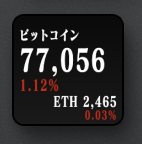
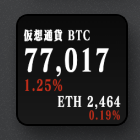
Watch 1 or 2 coins from BTC, ETH, BNB, XRP, SOL, and TRX.
Keep the compact second-coin row, title the first as 仮想通貨, and refresh the README demo.

diff --git a/plugin/actions/btcticker.js b/plugin/actions/btcticker.js
@@ -1,5 +1,48 @@
+const COINS = [
+    { key: 'showBTC', symbol: 'BTC', id: 1 },
+    { key: 'showETH', symbol: 'ETH', id: 1027 },
+    { key: 'showBNB', symbol: 'BNB', id: 1839 },
+    { key: 'showXRP', symbol: 'XRP', id: 52 },
+    { key: 'showSOL', symbol: 'SOL', id: 5426 },
+    { key: 'showTRX', symbol: 'TRX', id: 1958 }
+]
+
+function asBool(value) {
+    return value === true || value === 'on' || value === 'true'
+}
+
 function formatChangePercent(change) {
     return `${Math.abs(Number(change) || 0).toFixed(2)}%`
+}
+
+function formatPrice(value) {
+    const amount = Number(value) || 0
+    const abs = Math.abs(amount)
+    if (abs >= 100) return Math.round(amount).toLocaleString('en-US')
+    if (abs >= 1) return amount.toLocaleString('en-US', { minimumFractionDigits: 2, maximumFractionDigits: 2 })
+    return amount.toLocaleString('en-US', { minimumFractionDigits: 4, maximumFractionDigits: 4 })
+}
+
+function cryptoTitle(symbol) {
+    return `仮想通貨 ${symbol}`
+}
+
+function changeColor(change) {
+    return change > 0 ? '#3f9c24' : '#c62e1a'
+}
+
+function enabledCoins(settings) {
+    return COINS.filter((coin) => asBool(settings[coin.key]))
+}
+
+function displayLimit(settings) {
+    const count = Number(settings.showCount)
+    if (count === 1 || count === 2) return count
+    return Math.min(2, Math.max(1, enabledCoins(settings).length))
+}
+
+function coinsToShow(settings) {
+    return enabledCoins(settings).slice(0, displayLimit(settings))
 }
 
 class BTCTicker {
@@ -10,8 +53,13 @@ class BTCTicker {
         this.HORIZONTAL_COMPRESS = 0.7
 
         this.settings = {
+            showCount: 1,
             showBTC: true,
             showETH: false,
+            showBNB: false,
+            showXRP: false,
+            showSOL: false,
+            showTRX: false,
             refreshDuration: 60
         }
         this.allowSend = true
@@ -43,40 +91,25 @@ class BTCTicker {
 
             this.createIcon("Loading...", null) //loading
 
-            const { showBTC, showETH } = this.settings
-            console.log('===fetchData settings:', { showBTC, showETH })
+            const selected = coinsToShow(this.settings)
+            console.log('===fetchData settings:', this.settings, selected.map((coin) => coin.symbol))
+
+            if (selected.length === 0) {
+                this.createIcon("No crypto selected", null)
+                return
+            }
 
             try {
+                const cryptoData = await Promise.all(selected.map(async (coin) => {
+                    const result = await Utils.fetchData(`https://api.coinmarketcap.com/data-api/v3/cryptocurrency/detail/lite?id=${coin.id}`)
+                    return {
+                        symbol: coin.symbol,
+                        price: result.data.statistics.price,
+                        change: result.data.statistics.priceChangePercentage24h
+                    }
+                }))
 
-                const cryptoData = []
-
-                if (showBTC) {
-                    const btcResult = await Utils.fetchData("https://api.coinmarketcap.com/data-api/v3/cryptocurrency/detail/lite?id=1")
-                    const btcPrice = btcResult.data.statistics.price
-                    const btcChange = btcResult.data.statistics.priceChangePercentage24h
-                    cryptoData.push({
-                        symbol: 'BTC',
-                        price: btcPrice,
-                        change: btcChange
-                    })
-                }
-
-                if (showETH) {
-                    const ethResult = await Utils.fetchData("https://api.coinmarketcap.com/data-api/v3/cryptocurrency/detail/lite?id=1027")
-                    const ethPrice = ethResult.data.statistics.price
-                    const ethChange = ethResult.data.statistics.priceChangePercentage24h
-                    cryptoData.push({
-                        symbol: 'ETH',
-                        price: ethPrice,
-                        change: ethChange
-                    })
-                }
-
-                if (cryptoData.length > 0) {
-                    this.createIcon(null, { cryptoData })
-                } else {
-                    this.createIcon("No crypto selected", null)
-                }
+                this.createIcon(null, { cryptoData })
 
             } catch (e) {
                 console.log('===fetch data error', e)
@@ -136,57 +169,57 @@ class BTCTicker {
         ctx.textBaseline = 'middle'
         ctx.textAlign = 'left'
         const leftPadding = 10
+        const fontStack = '"FOT-Matisse Pro", "MatissePro-EB", sans-serif'
         if (data && data.cryptoData && data.cryptoData.length > 0) {
             const cryptoData = data.cryptoData
             if (cryptoData.length === 1) {
                 const crypto = cryptoData[0]
-                const formattedPrice = `${parseInt(crypto.price).toLocaleString()}`
+                const formattedPrice = formatPrice(crypto.price)
                 const formattedChange = formatChangePercent(crypto.change)
                 ctx.fillStyle = "#ffffff"
                 ctx.shadowColor = "#ffffff"
                 ctx.shadowBlur = 0
-                ctx.font = `28px "FOT-Matisse Pro", "MatissePro-EB", sans-serif`
-                this.drawTextWithSpacing(ctx, crypto.symbol, leftPadding, centerY - 50, 2, 'left')
+                ctx.font = `24px ${fontStack}`
+                this.drawTextWithSpacing(ctx, cryptoTitle(crypto.symbol), leftPadding, centerY - 50, 2, 'left')
                 const fontSize = formattedPrice.length > 8 ? 48 : formattedPrice.length > 6 ? 52 : 56
-                ctx.font = `${fontSize}px "FOT-Matisse Pro", "MatissePro-EB", sans-serif`
+                ctx.font = `${fontSize}px ${fontStack}`
                 this.drawTextWithSpacing(ctx, formattedPrice, leftPadding, centerY - 5, 3, 'left')
                 ctx.shadowBlur = 0
-                ctx.fillStyle = crypto.change > 0 ? "#3f9c24" : "#c62e1a"
-                ctx.shadowColor = crypto.change > 0 ? "#3f9c24" : "#c62e1a"
-                ctx.font = `28px "FOT-Matisse Pro", "MatissePro-EB", sans-serif`
+                ctx.fillStyle = changeColor(crypto.change)
+                ctx.shadowColor = changeColor(crypto.change)
+                ctx.font = `28px ${fontStack}`
                 this.drawTextWithSpacing(ctx, formattedChange, leftPadding, centerY + 40, 2, 'left')
-            } else if (cryptoData.length === 2) {
-                const btc = cryptoData.find(c => c.symbol === 'BTC')
-                const eth = cryptoData.find(c => c.symbol === 'ETH')
+            } else {
+                const primary = cryptoData[0]
+                const secondary = cryptoData[1]
                 const rightPadding = canvas.width - 10
-                if (btc) {
-                    const formattedPrice = `${parseInt(btc.price).toLocaleString()}`
-                    const formattedChange = formatChangePercent(btc.change)
+                if (primary) {
+                    const formattedPrice = formatPrice(primary.price)
+                    const formattedChange = formatChangePercent(primary.change)
                     ctx.fillStyle = "#ffffff"
                     ctx.shadowColor = "#ffffff"
                     ctx.shadowBlur = 0
-                    ctx.font = `24px "FOT-Matisse Pro", "MatissePro-EB", sans-serif`
-                    this.drawTextWithSpacing(ctx, 'ビットコイン', leftPadding, 35, 2, 'left')
+                    ctx.font = `24px ${fontStack}`
+                    this.drawTextWithSpacing(ctx, cryptoTitle(primary.symbol), leftPadding, 35, 2, 'left')
                     const fontSize = formattedPrice.length > 8 ? 48 : formattedPrice.length > 6 ? 52 : 56
-                    ctx.font = `${fontSize}px "FOT-Matisse Pro", "MatissePro-EB", sans-serif`
+                    ctx.font = `${fontSize}px ${fontStack}`
                     this.drawTextWithSpacing(ctx, formattedPrice, leftPadding, 80, 3, 'left')
-                    ctx.fillStyle = btc.change > 0 ? "#3f9c24" : "#c62e1a"
-                    ctx.shadowColor = btc.change > 0 ? "#3f9c24" : "#c62e1a"
-                    ctx.font = `28px "FOT-Matisse Pro", "MatissePro-EB", sans-serif`
+                    ctx.fillStyle = changeColor(primary.change)
+                    ctx.shadowColor = changeColor(primary.change)
+                    ctx.font = `28px ${fontStack}`
                     this.drawTextWithSpacing(ctx, formattedChange, leftPadding, 125, 2, 'left')
                 }
-                if (eth) {
-                    const formattedPrice = `${parseInt(eth.price).toLocaleString()}`
-                    const formattedChange = formatChangePercent(eth.change)
+                if (secondary) {
+                    const formattedPrice = formatPrice(secondary.price)
+                    const formattedChange = formatChangePercent(secondary.change)
                     ctx.fillStyle = "#ffffff"
                     ctx.shadowColor = "#ffffff"
                     ctx.shadowBlur = 0
-                    ctx.font = `26px "FOT-Matisse Pro", "MatissePro-EB", sans-serif`
-                    const ethLabel = `${eth.symbol} ${formattedPrice}`
-                    this.drawTextWithSpacing(ctx, ethLabel, rightPadding, 155, 2, 'right')
-                    ctx.fillStyle = eth.change > 0 ? "#3f9c24" : "#c62e1a"
-                    ctx.shadowColor = eth.change > 0 ? "#3f9c24" : "#c62e1a"
-                    ctx.font = `22px "FOT-Matisse Pro", "MatissePro-EB", sans-serif`
+                    ctx.font = `26px ${fontStack}`
+                    this.drawTextWithSpacing(ctx, `${secondary.symbol} ${formattedPrice}`, rightPadding, 155, 2, 'right')
+                    ctx.fillStyle = changeColor(secondary.change)
+                    ctx.shadowColor = changeColor(secondary.change)
+                    ctx.font = `22px ${fontStack}`
                     this.drawTextWithSpacing(ctx, formattedChange, rightPadding, 180, 2, 'right')
                 }
             }
@@ -196,7 +229,7 @@ class BTCTicker {
             ctx.shadowColor = "#ffffff"
             ctx.shadowBlur = 8
             const fontSize = text.length > 8 ? 24 : text.length > 6 ? 28 : 32
-            ctx.font = `${fontSize}px "FOT-Matisse Pro", "MatissePro-EB", sans-serif`
+            ctx.font = `${fontSize}px ${fontStack}`
             ctx.fillText(text, centerX, centerY)
         }
         const s_url = canvas.toDataURL('image/png');
@@ -222,18 +255,31 @@ class BTCTicker {
 
     setParams(jsn) {
         console.log('===setParams received:', jsn)
-        
-        // Handle checkbox values properly
-        if (jsn.showBTC !== undefined) {
-            jsn.showBTC = jsn.showBTC === true || jsn.showBTC === 'on' || jsn.showBTC === 'true'
+        const next = { ...jsn }
+
+        if (next.showCount !== undefined) {
+            const count = Number(next.showCount)
+            next.showCount = count === 2 ? 2 : 1
         }
-        if (jsn.showETH !== undefined) {
-            jsn.showETH = jsn.showETH === true || jsn.showETH === 'on' || jsn.showETH === 'true'
+
+        const fromInspector = next.showCount !== undefined || COINS.some((coin) => coin.key in jsn)
+        if (fromInspector) {
+            for (const coin of COINS) {
+                next[coin.key] = asBool(jsn[coin.key])
+            }
+        } else {
+            for (const coin of COINS) {
+                if (coin.key in next) next[coin.key] = asBool(next[coin.key])
+            }
         }
-        
+
+        if (next.refreshDuration !== undefined) {
+            next.refreshDuration = Number(next.refreshDuration)
+        }
+
         this.settings = {
             ...this.settings,
-            ...jsn
+            ...next
         }
         console.log('===updated settings:', this.settings)
 

diff --git a/property-inspector/config/inspector.html b/property-inspector/config/inspector.html
@@ -14,18 +14,46 @@
 
     <form id="property-inspector">
 
+      <div type="select" class="udpi-item">
+        <div class="udpi-item-label" data-localize>Cryptos to Show</div>
+        <select class="udpi-item-value select" id="showCount" name="showCount">
+          <option value="1" data-localize selected>1 crypto</option>
+          <option value="2" data-localize>2 cryptos</option>
+        </select>
+      </div>
+
       <div class="udpi-item">
-        <div class="udpi-item-label" data-localize>Cryptocurrencies to Display</div>
+        <div class="udpi-item-label" data-localize>Cryptocurrencies</div>
         <div class="udpi-item-value">
           <div class="udpi-item-child" style="margin-top: 0;">
             <input id="showBTC" name="showBTC" type="checkbox" checked>
-            <label for="showBTC" class="sdpi-item-label"><span></span>Show Bitcoin (BTC)</label>
+            <label for="showBTC" class="sdpi-item-label"><span></span>BTC</label>
           </div>
           <div class="udpi-item-child">
             <input id="showETH" name="showETH" type="checkbox">
-            <label for="showETH" class="sdpi-item-label"><span></span>Show Ethereum (ETH)</label>
+            <label for="showETH" class="sdpi-item-label"><span></span>ETH</label>
+          </div>
+          <div class="udpi-item-child">
+            <input id="showBNB" name="showBNB" type="checkbox">
+            <label for="showBNB" class="sdpi-item-label"><span></span>BNB</label>
+          </div>
+          <div class="udpi-item-child">
+            <input id="showXRP" name="showXRP" type="checkbox">
+            <label for="showXRP" class="sdpi-item-label"><span></span>XRP</label>
+          </div>
+          <div class="udpi-item-child">
+            <input id="showSOL" name="showSOL" type="checkbox">
+            <label for="showSOL" class="sdpi-item-label"><span></span>SOL</label>
+          </div>
+          <div class="udpi-item-child">
+            <input id="showTRX" name="showTRX" type="checkbox">
+            <label for="showTRX" class="sdpi-item-label"><span></span>TRX</label>
           </div>
         </div>
+      </div>
+
+      <div class="udpi-item">
+        <div class="udpi-item-hint" data-localize>If more coins are enabled than shown, the first 1 or 2 in this list are used.</div>
       </div>
 
       <div type="select" class="udpi-item">

diff --git a/property-inspector/config/inspector.js b/property-inspector/config/inspector.js
@@ -41,6 +41,12 @@ $UD.onParamFromApp( jsonObj => {
 
 })
 
+const CRYPTO_KEYS = ['showBTC', 'showETH', 'showBNB', 'showXRP', 'showSOL', 'showTRX']
+
+function asBool(value) {
+  return value === true || value === 'on' || value === 'true'
+}
+
 //重载表单数据
 function settingSaveParam(params) {
   // console.log('===setSetting', params)
@@ -48,5 +54,9 @@ function settingSaveParam(params) {
 
   //渲染表单数据
   Utils.setFormValue(ACTION_SETTING, form);
+  CRYPTO_KEYS.forEach((key) => {
+    const el = document.getElementById(key)
+    if (el) el.checked = asBool(ACTION_SETTING[key])
+  })
 
 }

diff --git a/README.md b/README.md
@@ -1,16 +1,23 @@
 # Crypto Watcher for UlanziDeck
 
 <p align="center">
-  <img src="assets/demo.png" alt="Crypto Watcher key showing Bitcoin and Ethereum prices" width="240">
+  <img src="assets/demo.png" alt="Crypto Watcher key showing 仮想通貨 BTC and ETH" width="240">
 </p>
 
-Shows live [Bitcoin](https://coinmarketcap.com/currencies/bitcoin/) and [Ethereum](https://coinmarketcap.com/currencies/ethereum/) prices on an [UlanziDeck](https://www.ulanzi.com/) key.
+Shows live crypto prices on an [UlanziDeck](https://www.ulanzi.com/) key. Supported coins: **BTC, ETH, BNB, XRP, SOL, TRX**.
 
 Prices and 24h change come from [CoinMarketCap](https://coinmarketcap.com/). The key uses a dark ticker layout:
 
-- **Top:** symbol (or `ビットコイン` when BTC and ETH are both on)
+**1 crypto**
+
+- **Top:** `仮想通貨` plus the symbol (`仮想通貨 BTC`)
 - **Middle:** price
 - **Bottom:** 24h change percent (green up, red down — no `+` / `-`)
+
+**2 cryptos**
+
+- First coin uses the same full layout (`仮想通貨 BTC`, price, change)
+- Second coin is compact at the bottom right: `ETH 2,464` on one row, change under it
 
 Tap the key to refresh immediately.
 
@@ -30,8 +37,8 @@ Default plugin path on macOS:
 
 ### Settings
 
-- Show Bitcoin (BTC)
-- Show Ethereum (ETH)
-- Refresh interval (default 1 minute)
+- **Cryptos to show:** 1 or 2
+- **Cryptocurrencies:** enable/disable BTC, ETH, BNB, XRP, SOL, TRX
+- **Refresh interval** (default 1 minute)
 
-You can show BTC only, ETH only, or both on one key.
+If more coins are enabled than the display count, the key uses the first 1 or 2 in that list order.
